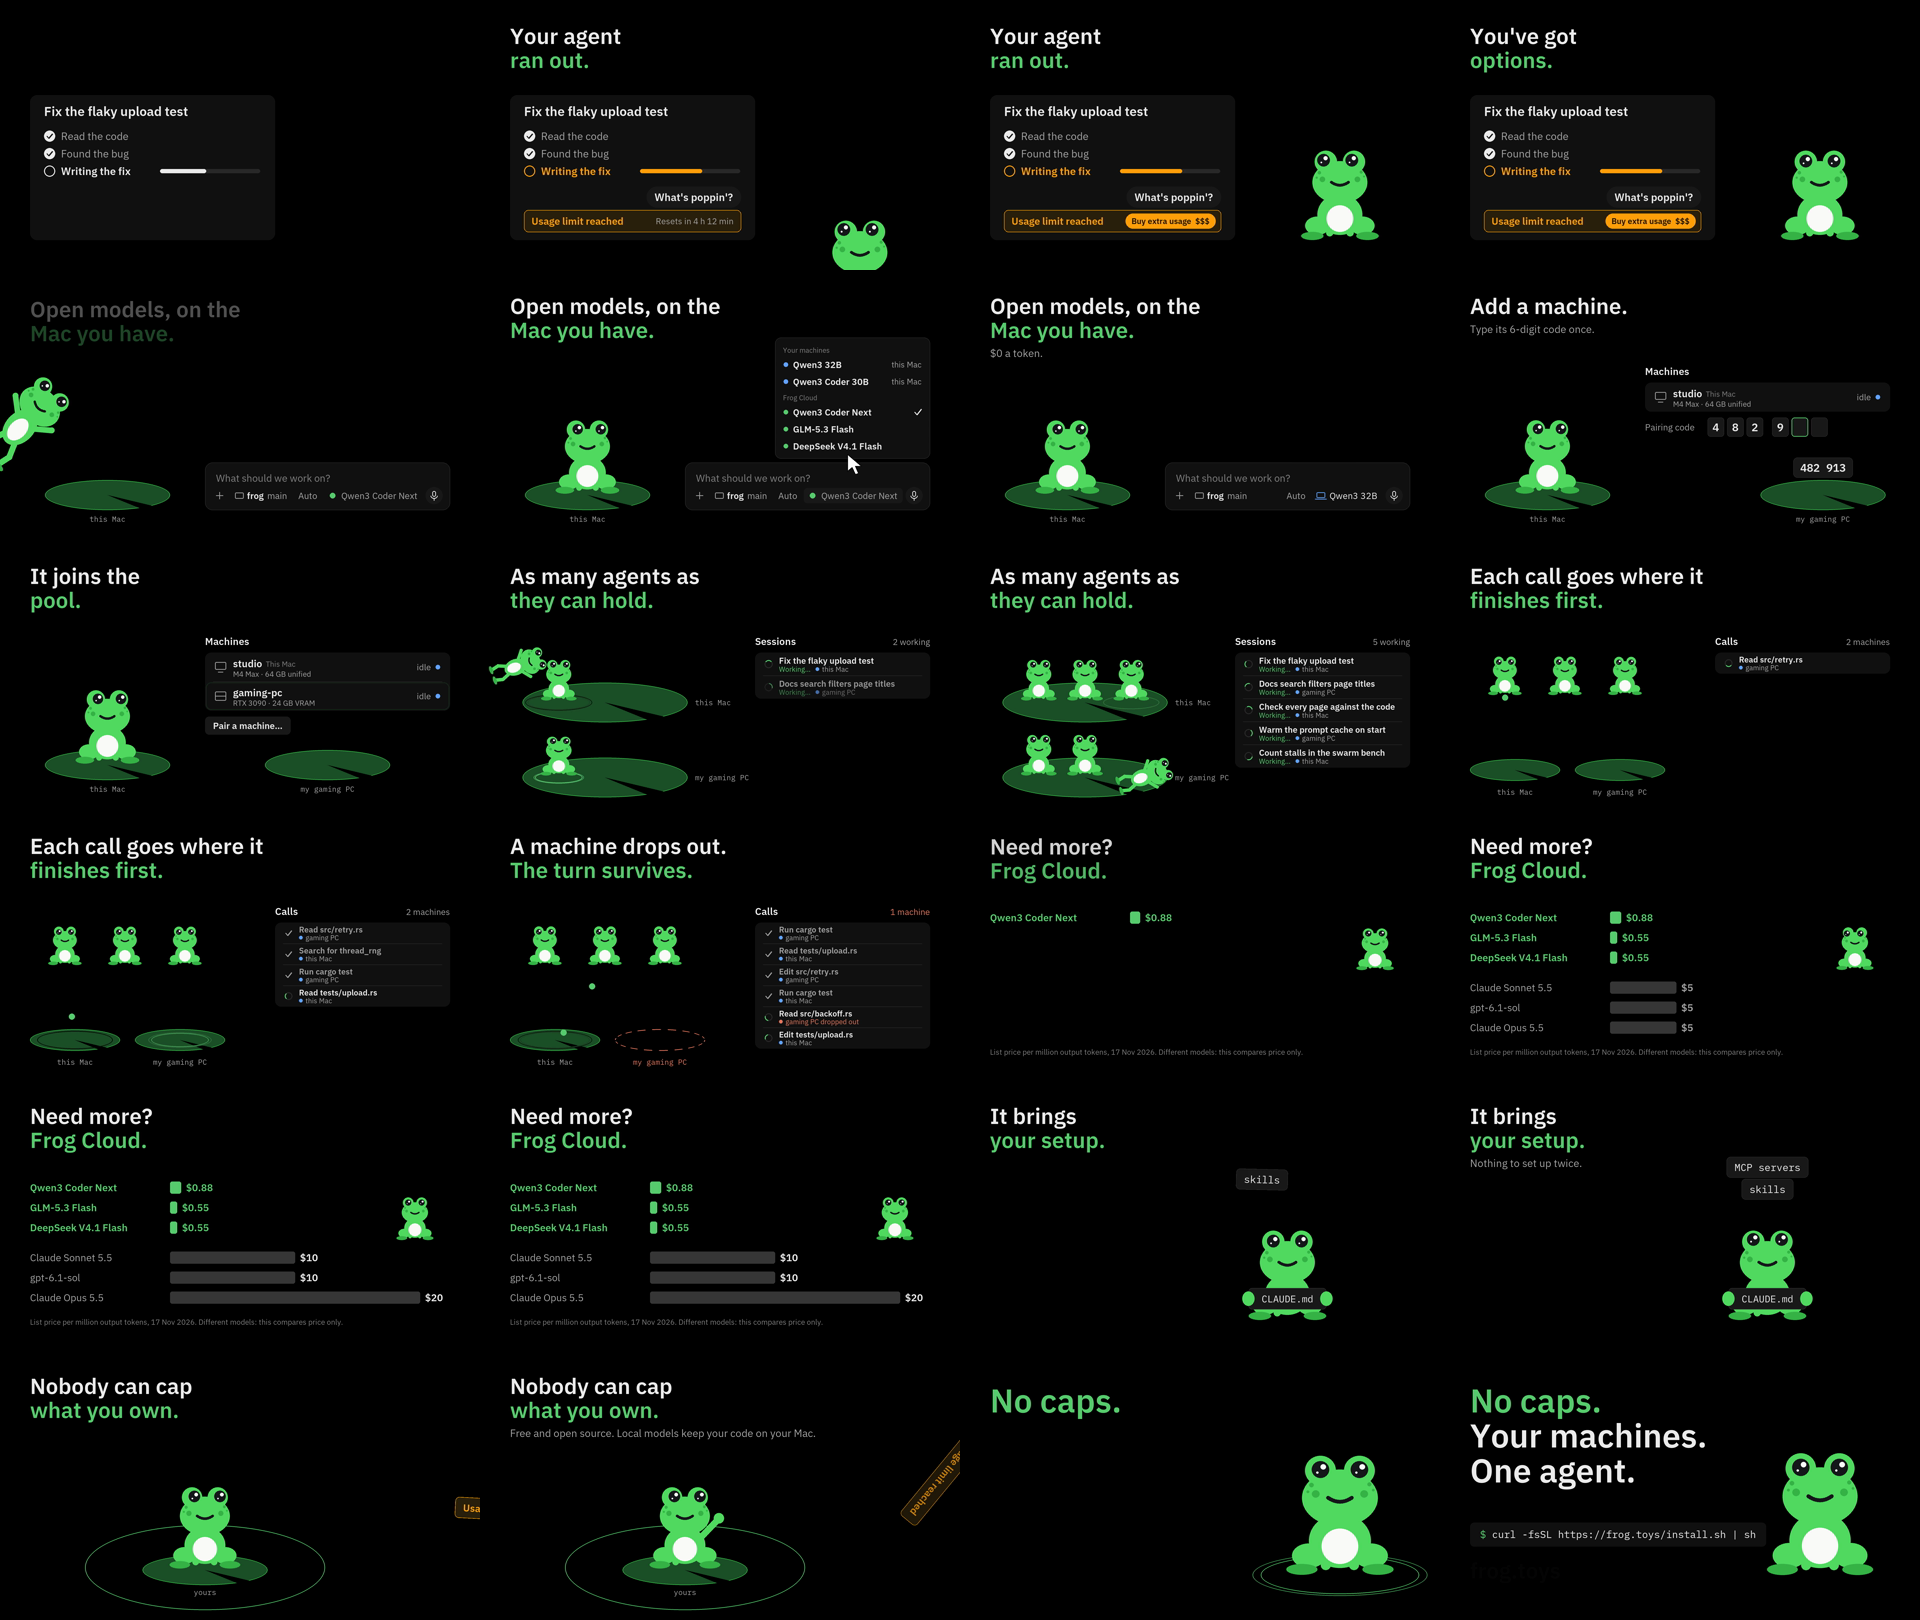
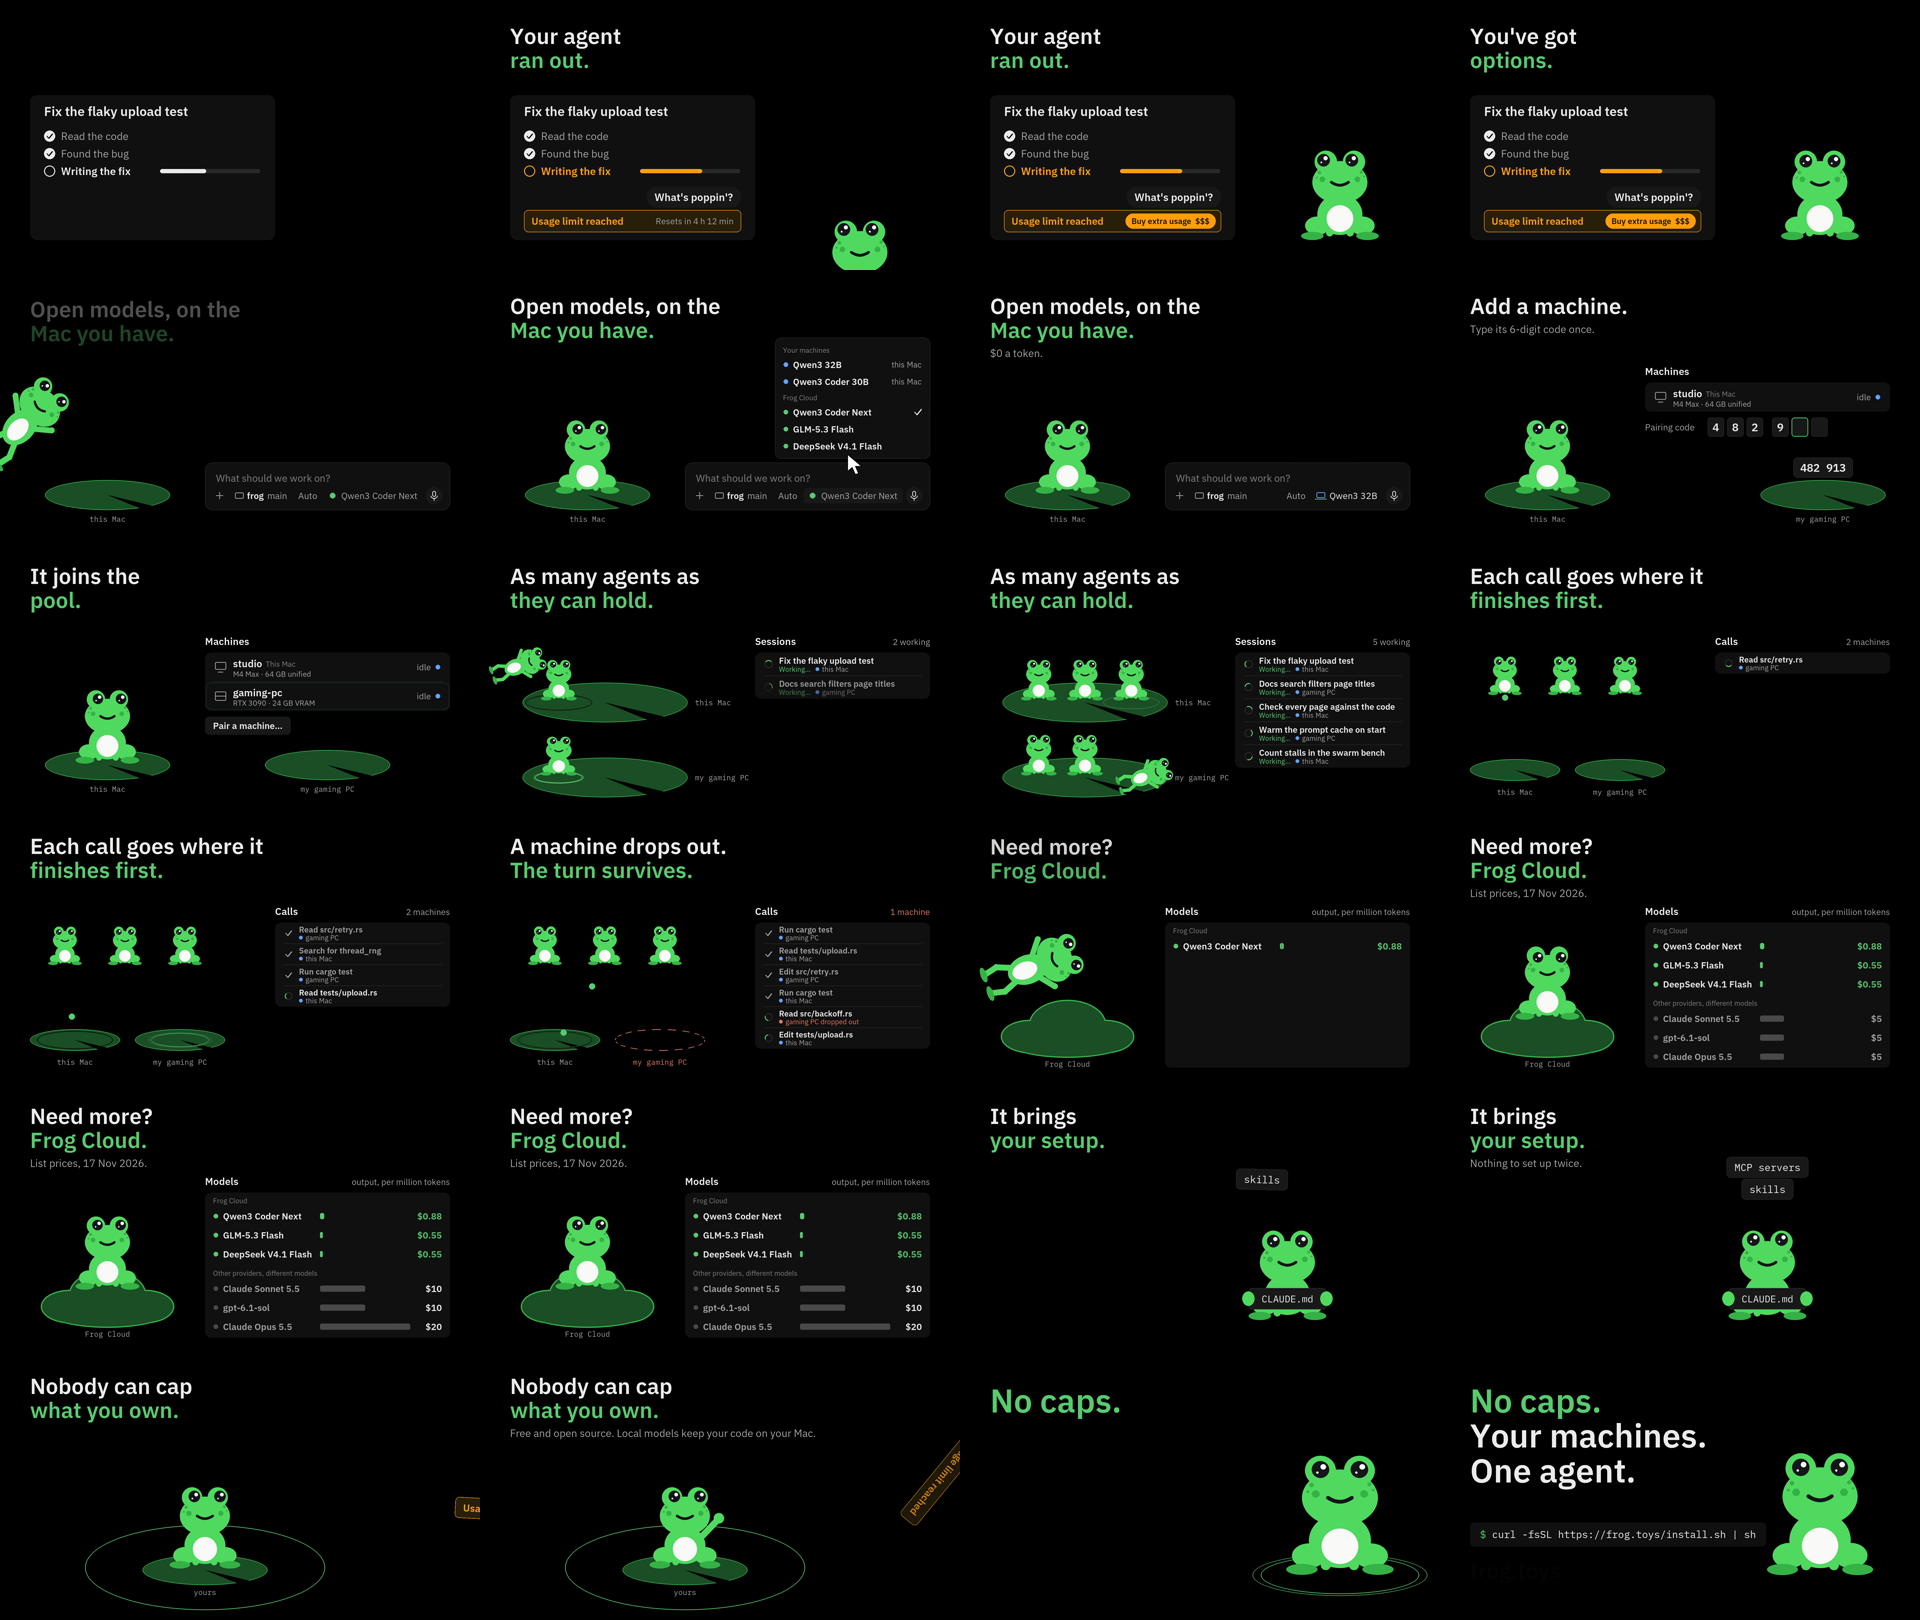
video: the pricing scene, redrawn: a model list, and the frog on a cloud
The frog now lands on a cloud drawn like the lily pads. Beside it, a
model list from the app's tokens gives Frog Cloud's three models and
their output prices, then a second section, "Other providers, different
models", grows its bars past them. One panel on the grid replaces the
free-floating chart, and the date sits in the title's sub line.

diff --git a/video/hype-reel/comp.py b/video/hype-reel/comp.py
@@ -559,36 +559,57 @@ def prices():
     import json
     return json.loads((HERE / "prices.json").read_text())
 
+def cloud_perch(pond, x, y):
+    """Frog Cloud as somewhere to sit: a cloud drawn like the pads, same fill and edge."""
+    parts = [(-150, 6, 112, 62), (0, -40, 150, 96), (150, 6, 112, 62), (0, 30, 232, 56)]
+    for grow, fill in ((5, _hex("#36b347")), (0, PAD)):
+        for dx, dy, rx, ry in parts:
+            pond.d.ellipse([2 * (x + dx - rx - grow), 2 * (y + dy - ry - grow), 2 * (x + dx + rx + grow), 2 * (y + dy + ry + grow)], fill=fill + (255,))
+
 def s_price(t, lt):
+    """Frog Cloud, priced. The frog lands on a cloud; a model list drawn from the app's tokens
+    gives Frog Cloud's three models with their output prices, then three other providers' list
+    prices grow past them at the same dollars per beat."""
     b = CUT["price"]
-    img = Image.new("RGB", (W, H), CANVAS); d = ImageDraw.Draw(img)
+    img = Image.new("RGB", (W, H), CANVAS)
     P = prices(); rows = P["rows"]
-    x_label, x_bar, per = col(0), col(4), 50.0  # 50 px per dollar: $20 is 1000 px
-    ys = [400, 480, 560, 680, 760, 840]
-    tip = None
-    for i, r in enumerate(rows):
-        y = ys[i]
-        if r["frog"]:
-            if t < B(b + i): continue
-            k = ease(seg(t, B(b + i), B(b + i) + 0.2)); tint = FROG
-        else:  # the others start on beat 47 and keep growing, at the same dollars per beat
-            t0 = B(b + 3)
-            if t < t0: continue
-            k = min(1.0, (t - t0) / (BEAT * r["out"] / 5.0)); tint = _hex("#383838")
-        w = max(8, r["out"] * per * k)
-        d.text((x_label, y + 30), r["name"], font=sans(40, r["frog"]), fill=FROG if r["frog"] else MUTED, anchor="lm")
-        d.rounded_rectangle([x_bar, y + 6, x_bar + w, y + 54], radius=8, fill=tint)
-        shown = r["out"] * k
-        txt = f"${r['out']:.2f}" if r["frog"] else (f"${r['out']:g}" if k >= 1 else f"${shown:.0f}")
-        d.text((x_bar + w + 20, y + 30), txt, font=sans(40), fill=FROG if r["frog"] else (FG if k >= 1 else MUTED), anchor="lm")
-        if not r["frog"] and k < 1: tip = (x_bar + w, y + 30)
-    d.text((x_label, 968), f"List price per million output tokens, {P['date']}. Different models: this compares price only.",
-           font=sans(LABEL, False), fill=FAINT, anchor="lm")
-    fx, fy = col(11), 640
-    look = (0.0, 0.2)
-    if tip: look = (max(-1, min(1, (tip[0] - fx) / 500)), 0.9)
-    frog_at(img, t, fx, fy, 105, land=B(b), look=look)
-    words(img, t, B(b), [("Need more? ", False), ("Frog Cloud.", True)])
+    perch = (col(2) + 30, 900)
+    pond = Pond(); cloud_perch(pond, *perch); pond.onto(img)
+    pad_label(img, perch[0], perch[1] + 104, "Frog Cloud")
+    d = ImageDraw.Draw(img)
+    x0, y0, x1 = col(5), 420, col(12)
+    d.text((x0, y0), "Models", font=sans(40), fill=FG, anchor="ls")
+    d.text((x1, y0), "output, per million tokens", font=sans(34, False), fill=MUTED, anchor="rs")
+    top = y0 + 30; hh, rh = 56, 76
+    d.rounded_rectangle([x0, top, x1, top + 2 * hh + 6 * rh + 12], radius=24, fill=CARD)
+    bar0, per = x0 + 460, 18.0  # bars start on one edge; 18 px per dollar, so $20 is 360 px
+    tip = None; y = top
+    for sect, (head, frog) in enumerate((("Frog Cloud", True), ("Other providers, different models", False))):
+        t_head = B(b) if frog else B(b + 3)
+        if t >= t_head: d.text((x0 + 32, y + hh / 2 + 4), head, font=sans(28, False), fill=FAINT, anchor="lm")
+        y += hh
+        for i, r in enumerate([r for r in rows if r["frog"] == frog]):
+            cy = y + rh / 2
+            if frog:
+                show = t >= B(b + i); k = ease(seg(t, B(b + i), B(b + i) + 0.2)); tint = FROG
+            else:  # they start together on beat 55 and grow at five dollars a beat
+                show = t >= B(b + 3); k = min(1.0, max(0.0, (t - B(b + 3)) / (BEAT * r["out"] / 5.0))); tint = _hex("#4a4a4a")
+            if show:
+                d.ellipse([x0 + 34, cy - 9, x0 + 52, cy + 9], fill=tint)
+                d.text((x0 + 72, cy), r["name"], font=sans(36), fill=FG if frog else MUTED, anchor="lm")
+                w = max(6, r["out"] * per * k)
+                d.rounded_rectangle([bar0, cy - 12, bar0 + w, cy + 12], radius=6, fill=tint)
+                txt = f"${r['out']:.2f}" if frog else (f"${r['out']:g}" if k >= 1 else f"${r['out'] * k:.0f}")
+                d.text((x1 - 32, cy), txt, font=sans(36), fill=FROG if frog else (FG if k >= 1 else MUTED), anchor="rm")
+                if not frog and k < 1: tip = (bar0 + w, cy)
+            y += rh
+        y += 6
+    fx, fy = perch[0], perch[1] - 62
+    look = (0.7, 0.0)
+    if tip: look = (0.9, max(-1.0, min(1.0, (tip[1] - (fy - 230)) / 300)))
+    hop(img, t, B(b), B(b + 1), (-160, fy - 40), (fx, fy), 180, height=280, look=look)
+    words(img, t, B(b), [("Need more?", False), ("Frog Cloud.", True)],
+          sub=f"List prices, {P['date']}." if t >= B(b + 3) else None)
     return img
 
 def s_setup(t, lt):

diff --git a/video/hype-reel/README.md b/video/hype-reel/README.md
@@ -81,7 +81,7 @@ turns the title.
 | 32–40 | 13.3–16.6 s | two pads, this Mac above and "my gaming PC" below; a frog lands on one each beat, and with each a row appears in the session list (redrawn from the app's tokens): its title, "Working…" with a turning spinner, and the machine it runs on; the header counts to "6 working" | As many agents as they can hold. | `README.md:6-7` |
 | 40–48 | 16.6–19.9 s | three agent frogs above two pads; a call leaves every beat for a machine, and each one lands as a row in a call list (redrawn from the app's tokens): the step, a spinner then a tick, and the machine it ran on | Each call goes where it / finishes first. | `README.md:59` ("A scheduler sends each call to the machine that will finish it first") |
 | 48–52 | 19.9–21.6 s | on beat 48 the gaming PC's pad empties to a dashed outline and the list's header goes from "2 machines" to "1 machine"; the call in flight turns round, lands on the Mac, and its row reads "gaming PC dropped out", then "reran on this Mac" | A machine drops out. / The turn survives. | `README.md:14`, `site/index.html` ("the turn reruns on the next node with that model, with one line saying so"); the row's wording is this reel's, not the app's |
-| 52–64 | 21.6–26.5 s | bars: Frog Cloud's three models land on beats 52–54, then three other providers' bars grow at the same dollars per beat while the frog watches the tip | Need more? Frog Cloud. / the six prices / List price per million output tokens, 17 Nov 2026. Different models: this compares price only. | `prices.json` (each row's source URL) |
+| 52–64 | 21.6–26.5 s | the frog lands on a cloud ("Frog Cloud"). A model list drawn from the app's tokens gives Frog Cloud's three models with their output prices, one a beat; from beat 55 a second section, "Other providers, different models", grows three bars past them at five dollars a beat while the frog watches the tip | Need more? / Frog Cloud. / List prices, 17 Nov 2026. / the six prices, "output, per million tokens" | `prices.json` (each row's source URL) |
 | 64–72 | 26.5–29.8 s | `CLAUDE.md` flies in and the frog catches it; `skills` and `MCP servers` land stacked on its head | It brings your setup. / Nothing to set up twice. | `site/index.html` "Brings your setup" |
 | 72–80 | 29.8–33.1 s | the frog on its own pad inside a ring; the limit notice from the open flies in, meets the ring on beat 76 and tumbles away; the frog waves | Nobody can cap what you own. / Free and open source. Local models keep your code on your Mac. | `README.md:55`, License |
 | 80–88 | 33.1–36.5 s | the breakdown: the frog hops in and lands with a ripple; the line, the install line, frog.toys; it winks on beat 86; no fade, picture and music stop on the last beat | No caps. Your machines. One agent. / `curl -fsSL https://frog.toys/install.sh \| sh` / frog.toys | `README.md:3,10` |
